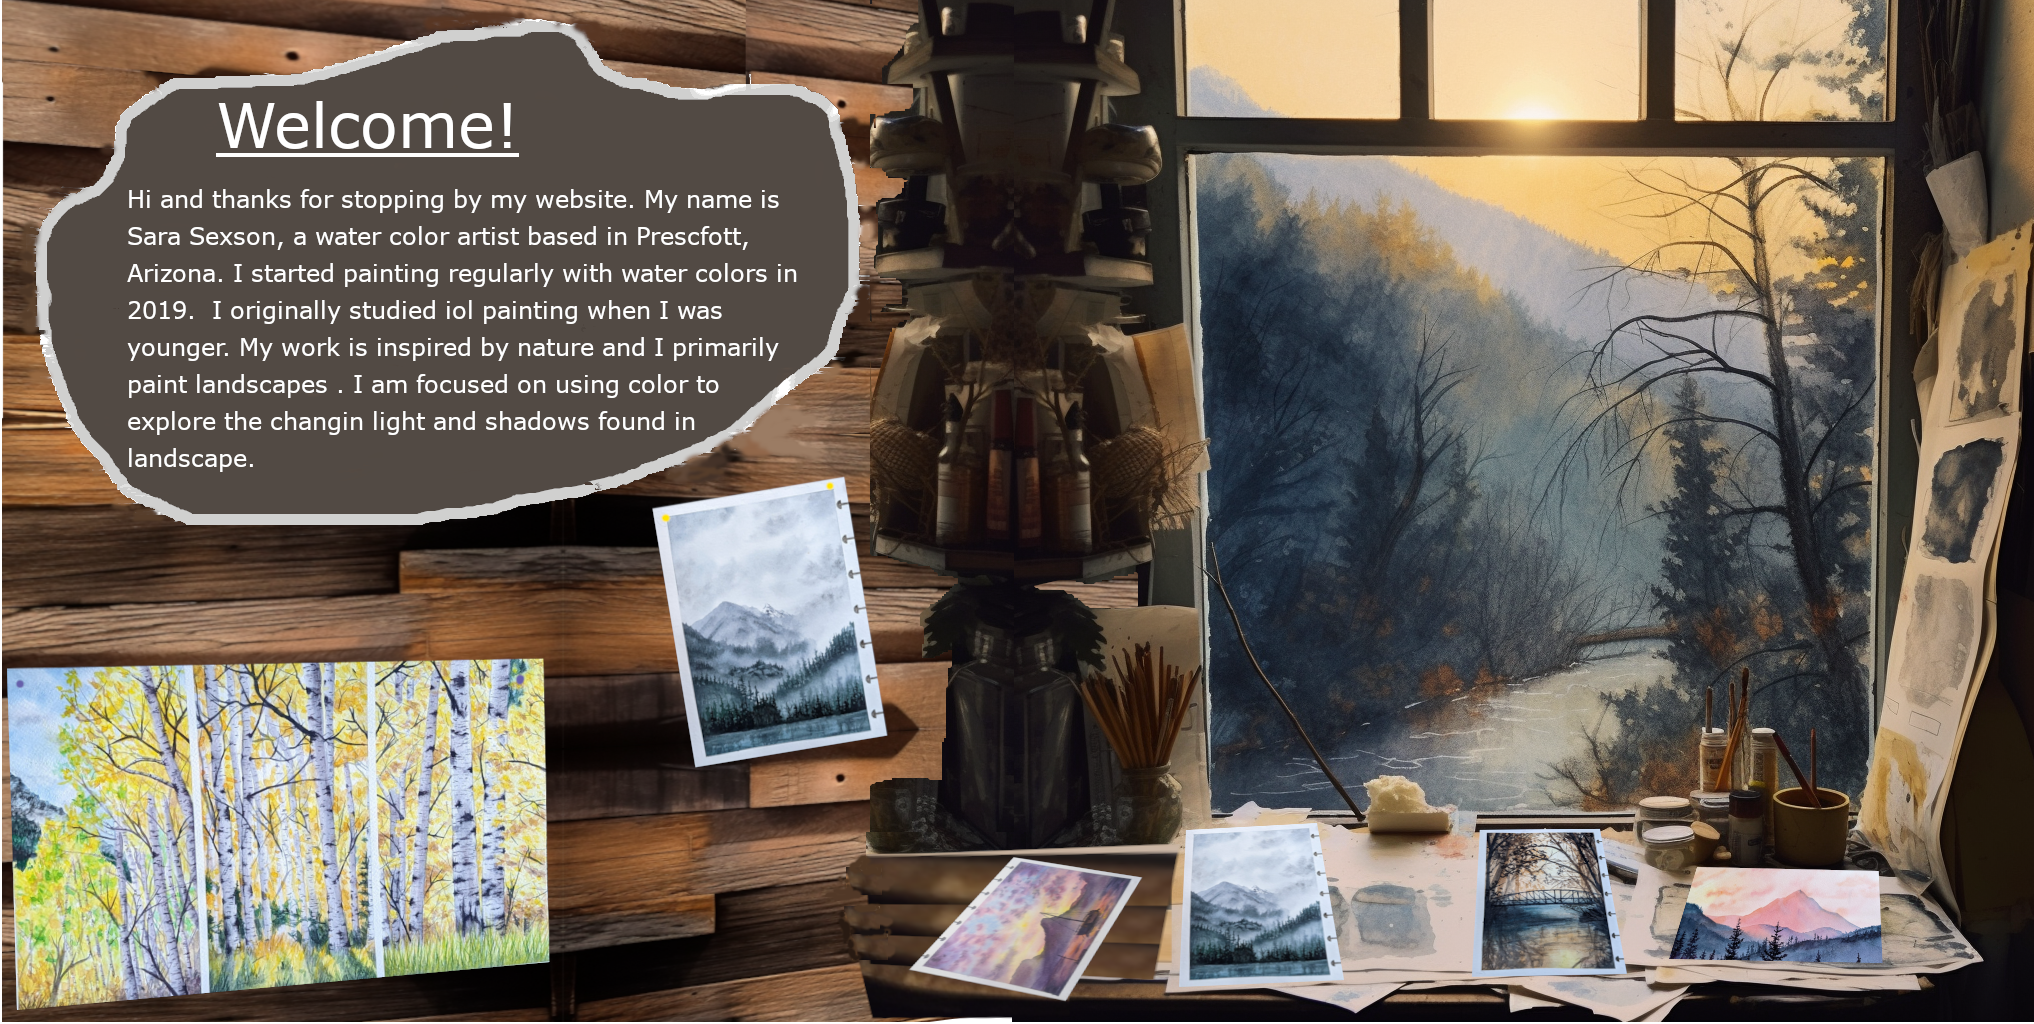
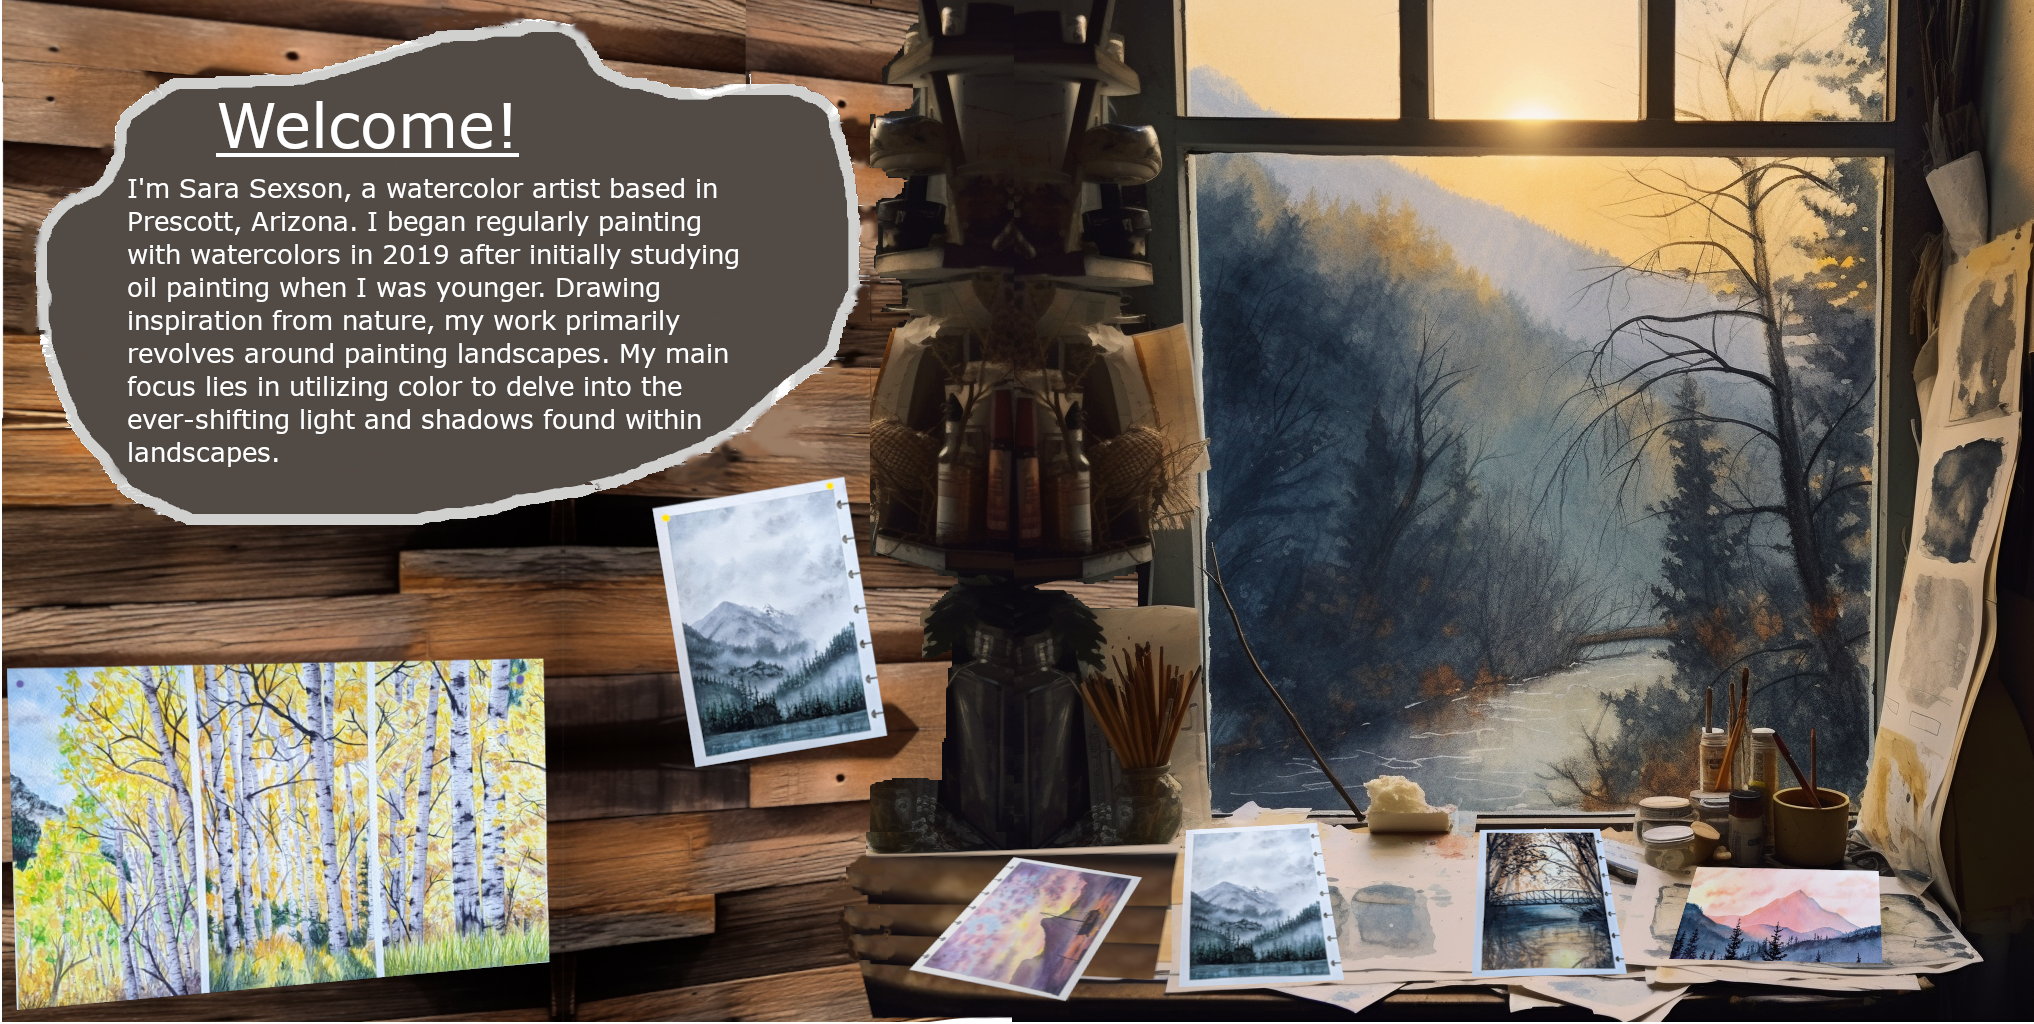
added conditional home and "My Works" nav links

Changed region(s): [[0.0619, 0.1562, 0.4027, 0.4688]]

diff --git a/src/components/Navbar/Navbar.js b/src/components/Navbar/Navbar.js
@@ -1,4 +1,4 @@
-import { Link } from 'react-router-dom';
+import { Link, useLocation } from 'react-router-dom';
 import './Navbar.css';
 
 export default function Navbar() {
@@ -14,6 +14,8 @@ window.onscroll = function() {
   prevScrollpos = currentScrollPos;
 }
 
+const location = useLocation();
+
     return (
 
         <nav id='navbar' className='navbar navbar-expand-sm text-dark mt-3'>
@@ -24,6 +26,16 @@ window.onscroll = function() {
 
                 <div id="collapsibleNavbar" className='container-fluid justify-content-sm-center collapse navbar-collapse'>
                     <ul className='navbar-nav col-8 justify-content-around'>
+                        {/* conditionally renders the 'Home' nav-link when not on the 'Home' page. */}
+                        {location.pathname !== '/' && (
+                        <li className='nav-item'>
+                            <Link to='/' className='nav-link'>
+                            Home
+                            </Link>
+                        </li>
+                        )}
+
+
                         <li className='nav-item'>
                             <button className='nav-link btn'>
                                 About Me
@@ -36,11 +48,14 @@ window.onscroll = function() {
                             </button>
                         </li>
 
+{/* conditionally renders the 'My Works' nav-link when not on the 'My Work' page. */}
+                        {location.pathname !== '/myworks' && (
                         <li className='nav-item'>
                             <Link to='myworks' className='nav-link'>
                             My Works
                             </Link>
                         </li>
+                        )}
                     </ul>
                 </div>
             </div>

diff --git a/src/components/Home/Home.js b/src/components/Home/Home.js
@@ -1,23 +1,22 @@
-import Navbar from '../Navbar/Navbar';
 import './Home.css';
 
 import sexsonart from '../../images/sexson-art-bg.png'
 import smallIntro from '../../images/spic6.jpg'
 
 
-
 export default function Home() {
     return (
         <main className=''>
-            <div id='container' className='pt-5'>
-                <h1 id='title' className=' text-center mt-5'>
+            <div id='upper-container' className=''>
+                <h1 id='title' className=''>
                     Sara Sexson Art
                 </h1>
-
+                
                 <hr></hr>
             </div>
+                
 
-            <div id='intro-container' className="">
+            <div id='main-container' className="">
                 <img
                     className=''
                     id='sexsonart' src={sexsonart} alt="Sara Sexson Art" />
@@ -25,6 +24,15 @@ export default function Home() {
 
             <div id='intro-container-small' className=''>
                 <img id='small-intro' src={smallIntro} alt="Sara Sexson Art" />
+                <div id='introduction'>
+                    <p>
+                    I'm Sara Sexson, a watercolor artist based in Prescott, Arizona. I began regularly painting with watercolors in 2019 after initially studying oil painting during my younger years. Drawing inspiration from nature, my work primarily revolves around painting landscapes. 
+                    </p>
+                    
+                    <p>
+                    My main focus lies in utilizing color to delve into the ever-shifting light and shadows found within landscapes.
+                    </p>
+                </div>
             </div>
         </main>
     )

diff --git a/src/components/Home/Home.css b/src/components/Home/Home.css
@@ -2,19 +2,32 @@ main{
 min-height: 100vh;
 background-repeat: no-repeat;
 background-size: auto;
-overflow: hidden;
 background-attachment: fixed;
 background-position: right;
 
 }
 
-#intro-container {
+#upper-container{
+    background: white;
+    margin-top:5rem;
+    padding-bottom: 1px;
+    position:sticky;
+    padding-top: 20px;
+    top: 0PX;
+    text-align: center;
+
+
+
+}
+
+#main-container {
     background-color: rgba(121, 90, 56, 0.35);
     /* background-image: url(../../images/sexson-art-bg.png); */
     min-height: 100vh;
     
     
 }
+
 
 #sexsonart{
     display: block;
@@ -34,10 +47,28 @@ background-position: right;
 }
 
 @media  screen and (max-width: 500px) {
-    #intro-container {
+    #main-container {
         display: none;
     }
     #intro-container-small {
         display: block;
+        position: relative;
+        text-align: center;
+        z-index: -1;
     }
+    #introduction{
+        position: absolute;
+        top: 38%;
+        left: 50%;
+        transform: translate(-50%, -50%);
+        backdrop-filter: blur(10px); /* You can adjust the value to get the desired blur effect */
+        background-color: rgba(255, 255, 255, 0.0); /* Semi-transparent white background */
+        border-radius: 10px; /* Optional: to have rounded corners */
+        padding: 10px;
+        color: black; /* Adjust according to your need */
+        text-align: center;
+        width: 80%; /* Add a max-width if needed */
+        box-shadow: 0 8px 32px 0 rgba(31, 38, 135, 0.37); /* Optional: to give a depth effect */
+    }
+    
 }

diff --git a/src/components/MyWorks/MyWorks.js b/src/components/MyWorks/MyWorks.js
@@ -1,18 +1,21 @@
+
 import spic1 from '../../images/spic1.jpg';
 import spic2 from '../../images/spic2.jpg';
 import spic3 from '../../images/spic3.jpg';
 import spic5 from '../../images/spic5.jpg';
 
 export default function MyWorks() {
-
     return (
-        <div className='bg-light'>
-            <div id='container' className='pt-5'>
-                <h1 id='title' className=' text-center mt-5'>My Works</h1>
-            </div>
+        <main>
+            <div id='upper-container' className=''>
+                <h1 id='title' className='mt-3'>
+                    My Works
+                </h1>
+                
                 <hr></hr>
+            </div>
 
-            <div className=' row mt-sm-5 px-2'>
+            <div className='row mt-sm-5 px-2'>
                 <div className='d-flex col-sm my-4'>
                     <img src={spic1} alt='spic1' className='rounded mx-auto d-block align-self-center' style={{ width: "70%" }} />
                 </div>
@@ -31,6 +34,6 @@ export default function MyWorks() {
 
 
             </div>
-        </div>
+        </main>
     )
 }

diff --git a/src/App.js b/src/App.js
@@ -12,7 +12,6 @@ function App() {
     <Routes>
       <Navbar />
       <Home />
-
     </Routes>
       </BrowserRouter>
   );
